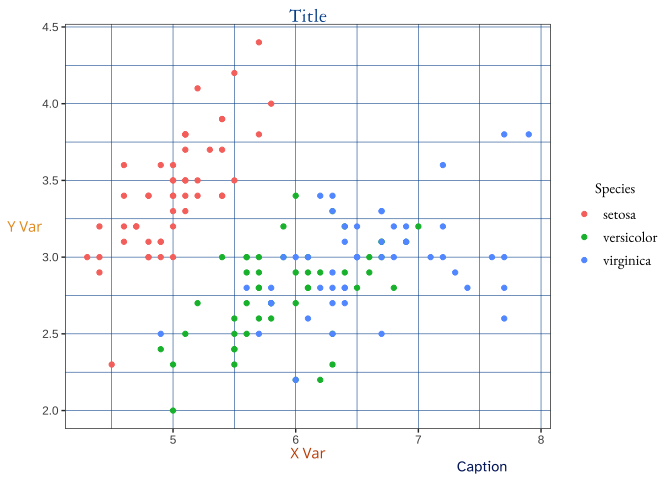
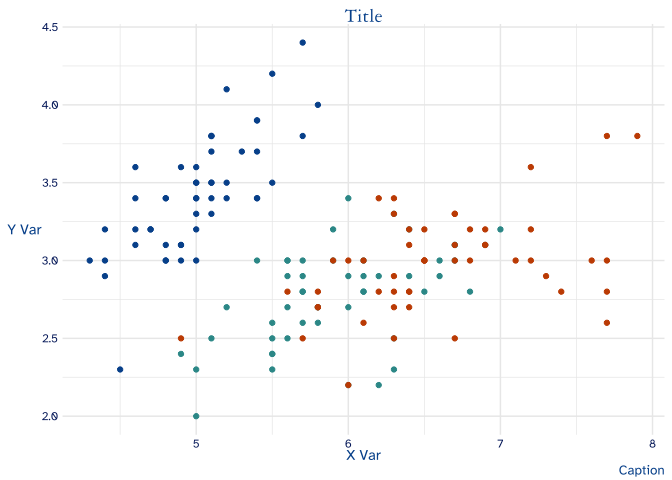
main page changes

diff --git a/README.md b/README.md
@@ -8,9 +8,10 @@
 
 ## Overview
 
-The goal of duke is to generate visualizations with Duke’s official
-suite of colors in a color blind friendly way. This package is
-integrated with ggplot2 and its visualization tools.
+**duke** allows users to generate visualizations with Duke’s official
+suite of colors in a color blind friendly way. By using it alongside
+**ggplot2**, you can easily promote accessibility in the Duke community
+and beyond.
 
 ## Installation
 
@@ -26,10 +27,12 @@ devtools::install_github("aidangildea/duke")
 ## Usage
 
 This package is fully integrated with ggplot2, and therefore, allows you
-to customize several visualization features. By adding aesthetic
-functions such as `theme_duke()` and `scale_color_duke()` to your
-visualizations, you can easily implement Duke official colors in a color
-blind friendly way.
+to customize several visualization features. Aesthetic functions such as
+[`theme_duke()`](https://aidangildea.github.io/duke/articles/theme_duke_vignette.html)
+and
+[`scale_color_duke()`](https://aidangildea.github.io/duke/articles/scale_duke_discrete_vignette.html)
+quickly make your graphs visually pleasing and accessible to your
+audience.
 
 For further information on how to use ggplot2, please visit its [GitHub
 repository](https://github.com/tidyverse/ggplot2).
@@ -42,6 +45,7 @@ use a scatter plot.
 ``` r
 library(ggplot2)
 library(duke)
+
 plot <- ggplot2::ggplot(iris, ggplot2::aes(Sepal.Length, Sepal.Width)) +
   ggplot2::geom_point(ggplot2::aes(colour = Species)) +
   ggplot2::labs(title = "Title", caption = "Caption", x = "X Var", y = "Y Var")
@@ -52,10 +56,15 @@ plot
 <img src="man/figures/README-plot-1.png" width="100%" />
 
 Then, simply convert your visualization to Duke official colors by
-calling `theme_duke()`.
+calling `theme_duke()` and `scale_duke_discrete`.
 
 ``` r
-plot + theme_duke()
+plot + 
+  theme_duke() +
+  scale_duke_discrete()
+#> New names:
+#> • `colour` -> `colour...1`
+#> • `colour` -> `colour...3`
 ```
 
 <img src="man/figures/README-themeduke-1.png" width="100%" />
